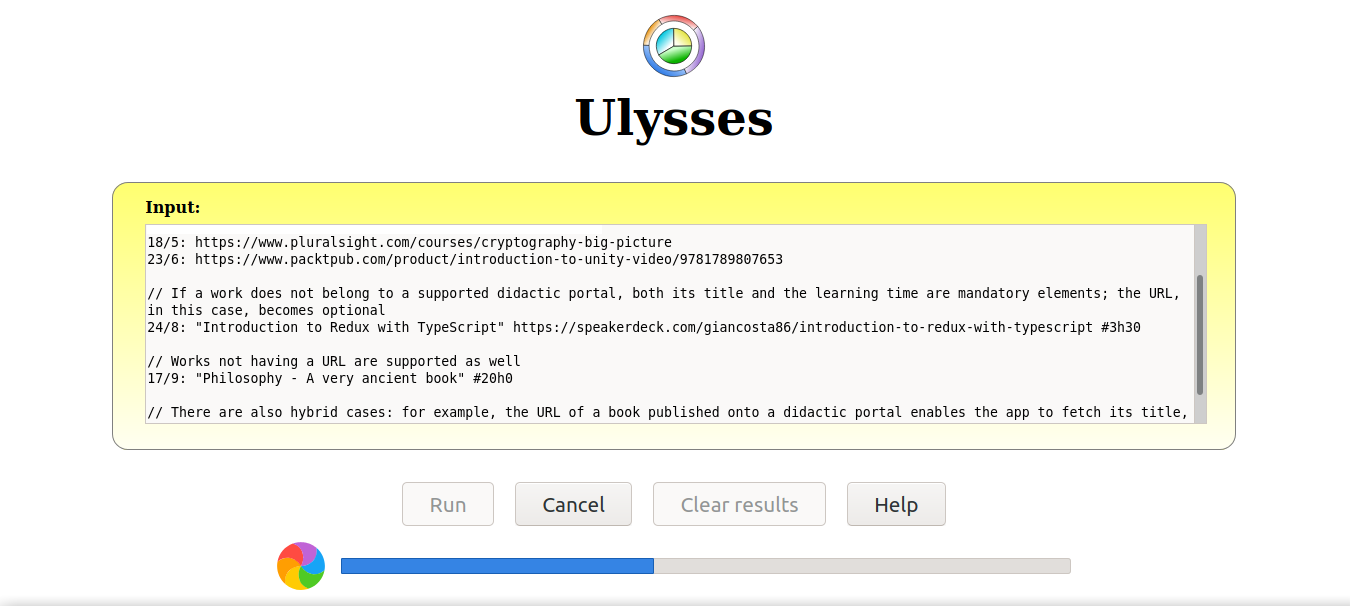
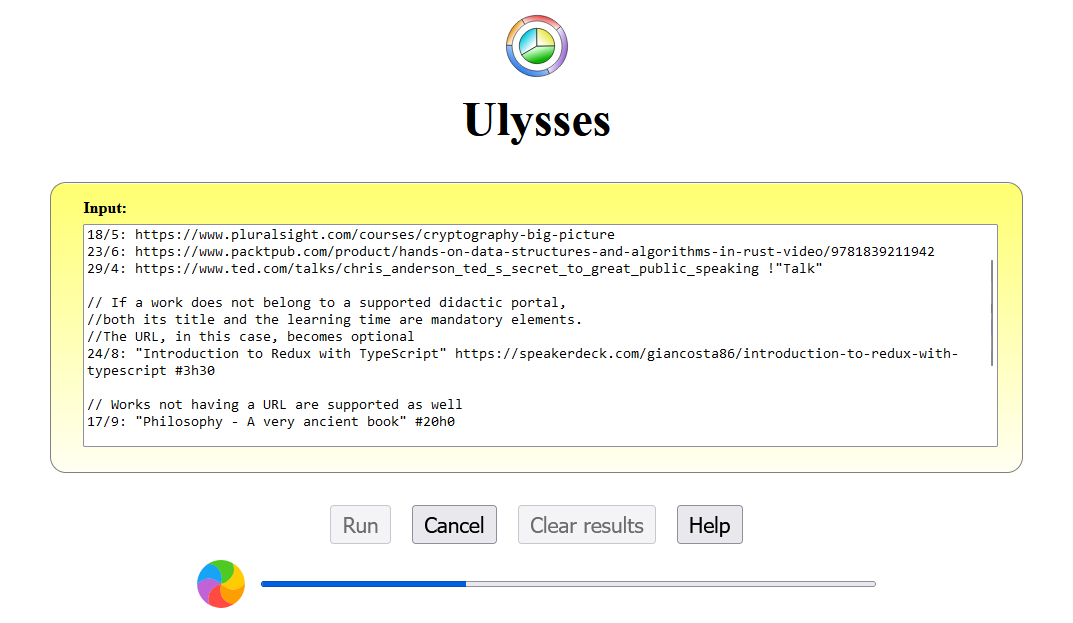
Add support for the "kind" field

diff --git a/packages/backend/src/model/pipeline/referenceParsing.test.ts b/packages/backend/src/model/pipeline/referenceParsing.test.ts
@@ -18,6 +18,20 @@ describe("Parsing course references", () => {
     expect(actualReference).toEqual(expectedReference);
   });
 
+  it("should parse a reference having just one-digit day and month, plus url and kind", () => {
+    const actualReference = parseCourseReference(
+      '8/9: https://www.pluralsight.com/courses/cryptography-big-picture !"Course"'
+    );
+
+    const expectedReference: CourseReference = {
+      completionDate: `${new Date().getFullYear()}-09-08`,
+      url: "https://www.pluralsight.com/courses/cryptography-big-picture",
+      kind: "Course"
+    };
+
+    expect(actualReference).toEqual(expectedReference);
+  });
+
   it("should parse a reference having just mixed-length-digit day and month, plus url", () => {
     const actualReference = parseCourseReference(
       "4/10: https://www.pluralsight.com/courses/c-sharp-design-patterns-data-access-patterns"
@@ -70,6 +84,21 @@ describe("Parsing course references", () => {
     expect(actualReference).toEqual(expectedReference);
   });
 
+  it("should parse a reference having date, title, url and kind", () => {
+    const actualReference = parseCourseReference(
+      '23/10: "Introduction to Redux with TypeScript" https://speakerdeck.com/giancosta86/introduction-to-redux-with-typescript !"Course"'
+    );
+
+    const expectedReference: CourseReference = {
+      title: "Introduction to Redux with TypeScript",
+      completionDate: `${new Date().getFullYear()}-10-23`,
+      url: "https://speakerdeck.com/giancosta86/introduction-to-redux-with-typescript",
+      kind: "Course"
+    };
+
+    expect(actualReference).toEqual(expectedReference);
+  });
+
   it("should parse a reference having date, title, url and learning time", () => {
     const actualReference = parseCourseReference(
       '23/10: "Introduction to Redux with TypeScript" https://speakerdeck.com/giancosta86/introduction-to-redux-with-typescript #25h30'
@@ -85,6 +114,22 @@ describe("Parsing course references", () => {
     expect(actualReference).toEqual(expectedReference);
   });
 
+  it("should parse a reference having date, title, url, kind and learning time", () => {
+    const actualReference = parseCourseReference(
+      '23/10: "Introduction to Redux with TypeScript" https://speakerdeck.com/giancosta86/introduction-to-redux-with-typescript !"Slides" #25h30'
+    );
+
+    const expectedReference: CourseReference = {
+      title: "Introduction to Redux with TypeScript",
+      completionDate: `${new Date().getFullYear()}-10-23`,
+      url: "https://speakerdeck.com/giancosta86/introduction-to-redux-with-typescript",
+      minutes: 25 * 60 + 30,
+      kind: "Slides"
+    };
+
+    expect(actualReference).toEqual(expectedReference);
+  });
+
   it("should parse an in-progress reference having title, url and learning time", () => {
     const actualReference = parseCourseReference(
       '*: "Introduction to Redux with TypeScript" https://speakerdeck.com/giancosta86/introduction-to-redux-with-typescript #25h30'
@@ -94,6 +139,21 @@ describe("Parsing course references", () => {
       title: "Introduction to Redux with TypeScript",
       url: "https://speakerdeck.com/giancosta86/introduction-to-redux-with-typescript",
       minutes: 25 * 60 + 30
+    };
+
+    expect(actualReference).toEqual(expectedReference);
+  });
+
+  it("should parse an in-progress reference having title, url, kind and learning time", () => {
+    const actualReference = parseCourseReference(
+      '*: "Introduction to Redux with TypeScript" https://speakerdeck.com/giancosta86/introduction-to-redux-with-typescript !"Slides" #25h30'
+    );
+
+    const expectedReference: CourseReference = {
+      title: "Introduction to Redux with TypeScript",
+      url: "https://speakerdeck.com/giancosta86/introduction-to-redux-with-typescript",
+      minutes: 25 * 60 + 30,
+      kind: "Slides"
     };
 
     expect(actualReference).toEqual(expectedReference);

diff --git a/packages/backend/src/model/pipeline/referenceParsing.ts b/packages/backend/src/model/pipeline/referenceParsing.ts
@@ -1,11 +1,12 @@
 const referenceLineRegex =
-  /(?:(?:(?<day>\d{1,2})\s*\/\s*(?<month>\d{1,2})(?:\/(?<year>\d{4}))?)|(?<in_progress>\*))\s*:\s*(?:"(?<title>[^"]+)"(?:\s+|$))?(?:(?<url>[^#\s]+)(?:\s+|$))?(?:#(?<hours>\d+)h(?<minutes>\d+))?/;
+  /(?:(?:(?<day>\d{1,2})\s*\/\s*(?<month>\d{1,2})(?:\/(?<year>\d{4}))?)|(?<in_progress>\*))\s*:\s*(?:"(?<title>[^"]+)"(?:\s+|$))?(?:(?<url>[^!#\s]+)(?:\s+|$))?(?:!"(?<kind>[^"]+)"(?:\s+|$))?(?:#(?<hours>\d+)h(?<minutes>\d+))?/;
 
 export interface CourseReference {
   completionDate?: string;
   title?: string;
   url?: string;
   minutes?: number;
+  kind?: string;
 }
 
 export class CourseReferenceParsingError extends Error {
@@ -42,6 +43,7 @@ export function parseCourseReference(line: string): CourseReference | null {
     completionDate: isoDate,
     title,
     url,
+    kind: match.groups.kind,
     minutes: !isNaN(totalMinutes) ? totalMinutes : undefined
   };
 }

diff --git a/packages/backend/src/model/pipeline/reification.test.ts b/packages/backend/src/model/pipeline/reification.test.ts
@@ -10,7 +10,8 @@ describe("Reification of a CourseDescriptor", () => {
       portal: "The portal",
       completionDate: "2020-04-29",
       certificateUrl:
-        "https://www.pluralsight.com/courses/cryptography-big-picture/certificate"
+        "https://www.pluralsight.com/courses/cryptography-big-picture/certificate",
+      kind: "Book"
     };
 
     const courseDescriptor = reifyCourseDescriptor(partialDescriptor);

diff --git a/packages/backend/src/model/shared/CourseDescriptor.ts b/packages/backend/src/model/shared/CourseDescriptor.ts
@@ -3,6 +3,7 @@ export interface CourseDescriptor {
   minutes: number;
   url?: string;
   portal?: string;
+  kind?: string;
   completionDate?: string;
   certificateUrl?: string;
 }

diff --git a/README.md b/README.md
@@ -8,7 +8,7 @@ _Simplified generation of OmniCourse descriptors_
 
 More precisely, the user can input lines using _a compact format_ - **one line per work** - and the app will try to fetch the missing information from the supported official websites.
 
-> Ulysses becomes essential as one completes more and more courses and books while keeping track of them with OmniCourse.
+> Ulysses becomes essential as one completes more and more works while keeping track of them with OmniCourse.
 
 ## Installation
 
@@ -36,7 +36,7 @@ Ulysses reads a minimalist log of **works**: each non-empty line must adhere to 
 
 This is the expected line format:
 
-> **\<completion date>**: [**"\<title between double quotes>"**] [**\<url not between double quotes>**] **\#\<learning time>**
+> **\<completion date\>**: \[**"\<title between double quotes\>"**\] \[**\<url not between double quotes\>**\] \[**!**"\<kind\>"\] **\#\<learning time\>**
 
 where:
 
@@ -52,6 +52,8 @@ where:
 
 - **url** is _optional_ but recommended: if the URL belongs to a supported didactic provider, it is used to fetch missing information such as the title and the learning time. It must _not_ be enclosed in quotes
 
+- **kind** is an arbitrary string, between double quotes
+
 - **learning time** is optional but, if declared, must be prefixed by a **\#** symbol. Its overall format is:
 
   > \#\<hours>h\<minutes>
@@ -65,18 +67,23 @@ What matters is that - with or without the aid of the URL - the line enables Uly
 To see Ulysses in action, you could input the following text, then click **Run**:
 
 ```
-// Ulysses supports a variety of didactic portals: in this case, the title and the learning time of each course are automatically fetched from its page
-29/4: https://www.ted.com/talks/chris_anderson_ted_s_secret_to_great_public_speaking
+// Ulysses supports a variety of didactic portals: in this case,
+// the title and the learning time of each work are automatically fetched from its page
 18/5: https://www.pluralsight.com/courses/cryptography-big-picture
-23/6: https://www.packtpub.com/product/introduction-to-unity-video/9781789807653
+23/6: https://www.packtpub.com/product/hands-on-data-structures-and-algorithms-in-rust-video/9781839211942
+29/4: https://www.ted.com/talks/chris_anderson_ted_s_secret_to_great_public_speaking !"Talk"
 
-// If a work does not belong to a supported didactic portal, both its title and the learning time are mandatory elements; the URL, in this case, becomes optional
+// If a work does not belong to a supported didactic portal,
+//both its title and the learning time are mandatory elements.
+//The URL, in this case, becomes optional
 24/8: "Introduction to Redux with TypeScript" https://speakerdeck.com/giancosta86/introduction-to-redux-with-typescript #3h30
 
 // Works not having a URL are supported as well
 17/9: "Philosophy - A very ancient book" #20h0
 
-// There are also hybrid cases: for example, the URL of a book published onto a didactic portal enables the app to fetch its title, but the learning time remains a mandatory element
+// There are also hybrid cases: for example, the URL of a book published
+// onto a didactic portal enables the app to fetch its title,
+//but the learning time remains a mandatory element
 21/10: https://www.packtpub.com/product/c-9-and-net-5-modern-cross-platform-development-fifth-edition/9781800568105 #11h30
 ```
 
